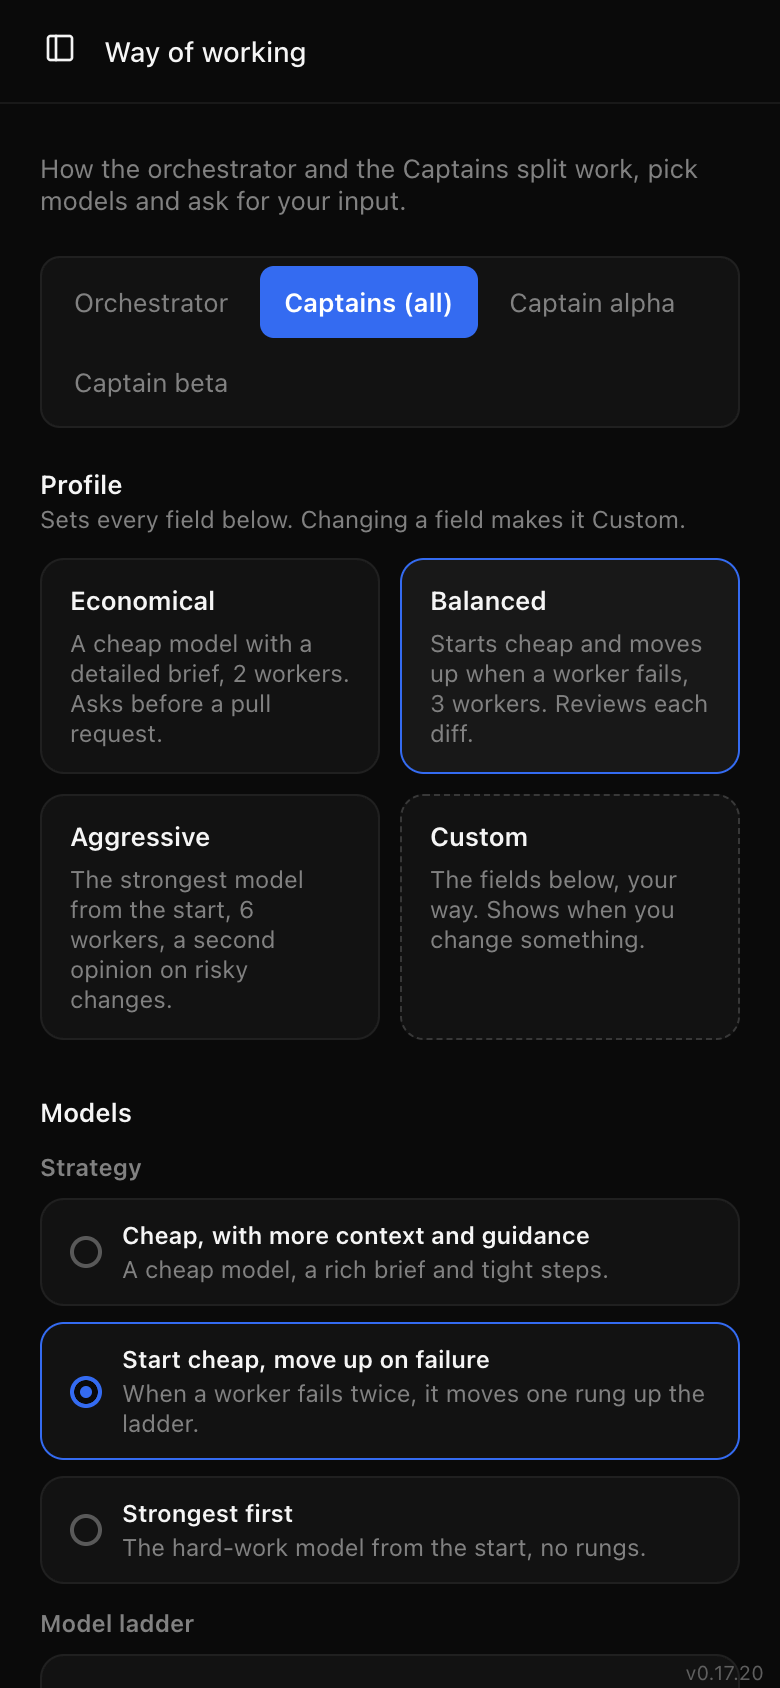
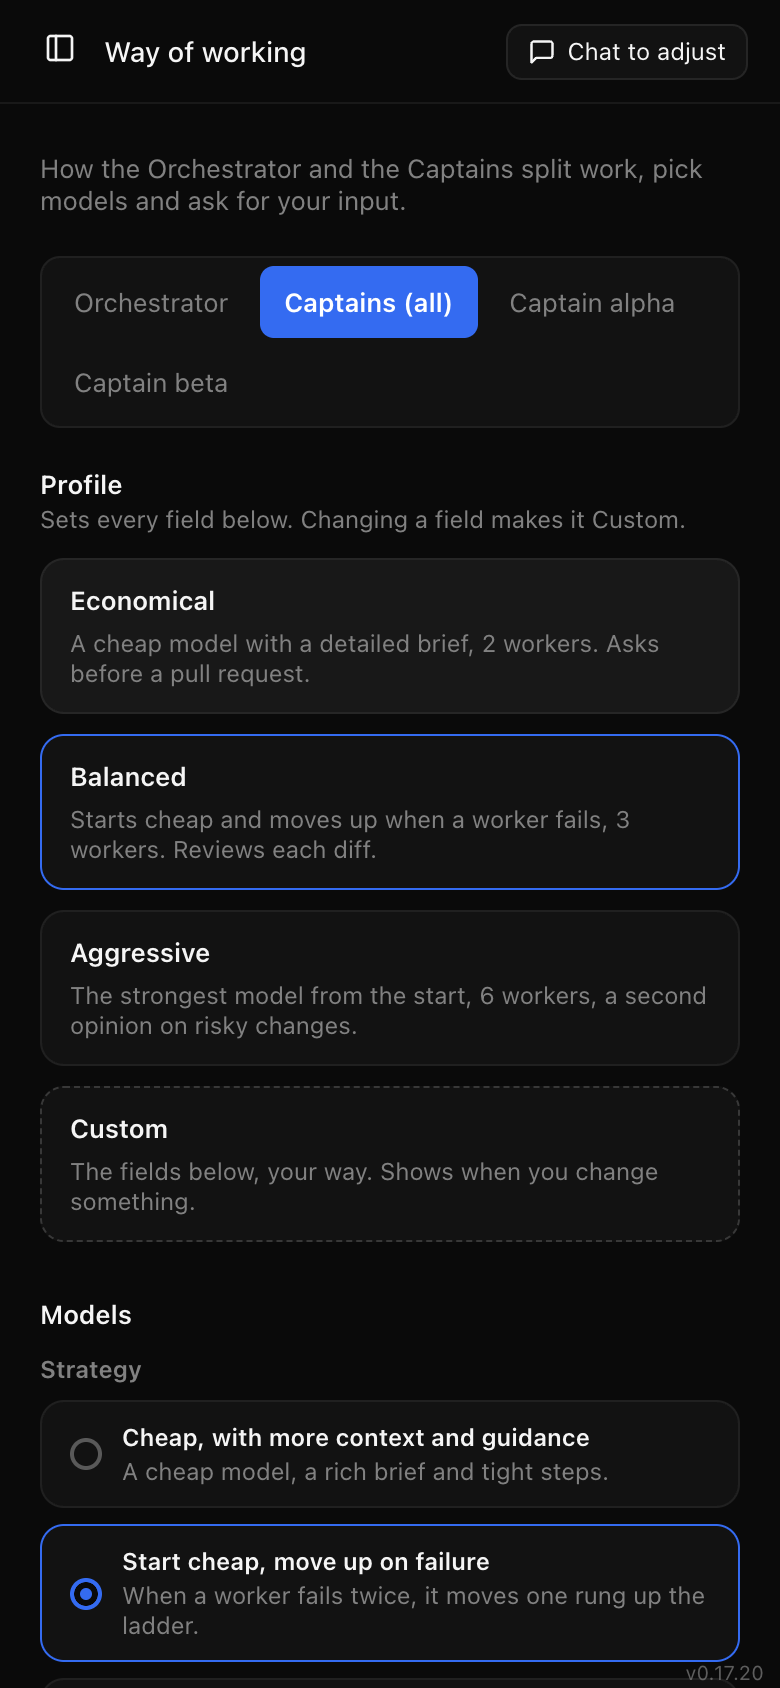
Name a project scope in the chat prompt without angle brackets
The thread shows the first prompt as Markdown, which dropped <repo> and
left "project:.". The phone shots of Chat to adjust scroll to the
parallel workers stepper.

diff --git a/scripts/web-sweep/taste.js b/scripts/web-sweep/taste.js
@@ -166,12 +166,18 @@ const shot = (page, name) => page.screenshot({ path: path.join(SCREENS, `${name}
     openPage("taste");
   });
   await waitFor("the watching page", () => watcher.isVisible(".taste-split"));
+  await small.evaluate(() => {
+    closePage();
+    openPage("taste");
+  });
+  await waitFor("the phone page again", () => small.isVisible(".taste-split"));
   await small.click('.taste-scopes button:text-is("Captains (all)")');
   for (const p of [watcher, small]) {
     await waitFor("4 workers on the open pages", async () => (await brief(p)).startsWith("Run up to 4 workers at once."));
     await p.evaluate(() => (window.sweepSameLoad = true));
   }
   await shot(watcher, "taste-chat-before");
+  await small.locator(".taste-stepper").evaluate((el) => el.scrollIntoView({ block: "center" }));
   await shot(small, "taste-chat-before-phone");
 
   check((await page.textContent(".page-head .taste-chat")) === "Chat to adjust", "the page head offers Chat to adjust");
@@ -180,6 +186,7 @@ const shot = (page, name) => page.screenshot({ path: path.join(SCREENS, `${name}
   await waitFor("the chat thread", () => page.evaluate(() => document.body.dataset.page !== "taste" && !!document.querySelector("#prompt")));
   const chatLaunch = await waitFor("the chat session's launch", () => fs.existsSync(LAUNCHES) && fs.readFileSync(LAUNCHES, "utf8").includes("Help me adjust") && fs.readFileSync(LAUNCHES, "utf8"));
   check(chatLaunch.includes("every project's Captain (Captains (all))") && chatLaunch.includes("(scope captains)"), "the chat's first prompt names the Captains' scope");
+  check(chatLaunch.includes("project: followed by the project's repo") && !chatLaunch.includes("<repo>"), "the prompt names a project scope in words a thread can show");
   check(["taste_get", "taste_set", "taste_reset"].every((tool) => chatLaunch.includes(tool)), "the first prompt explains the three tools");
   await waitFor("the first answer in the thread", () => page.evaluate(() => document.body.innerText.includes("echo: Help me adjust")));
   await shot(page, "taste-chat-thread");
@@ -201,6 +208,7 @@ const shot = (page, name) => page.screenshot({ path: path.join(SCREENS, `${name}
   await waitFor("the tool calls in the thread", () => page.evaluate(() => document.body.innerText.includes("Done: taste_set, taste_get.")));
   await shot(page, "taste-chat-applied");
   await shot(watcher, "taste-chat-after");
+  await small.locator(".taste-stepper").evaluate((el) => el.scrollIntoView({ block: "center" }));
   await shot(small, "taste-chat-after-phone");
 
   check(errors.length === 0, `no page errors${errors.length ? `: ${errors.join("; ")}` : ""}`);

diff --git a/crates/core/src/taste.rs b/crates/core/src/taste.rs
@@ -527,7 +527,7 @@ pub fn chat_prompt(scope: &TasteScope) -> String {
     format!(
         "Help me adjust the way of working of {who} in pinned (scope {name}).
 
-You have three tools for it. taste_get(scope) reads a scope: the settings its sessions get (effective), what the scope sets itself (own), and the brief text they start with. taste_set(scope, patch) changes the fields the patch names and keeps the rest; a project's field set to the Captains' value goes back to inheriting it. taste_reset(scope, field) makes a project inherit the field again, or gives the orchestrator and the Captains its default back. A scope is orchestrator, captains or project:<repo>. The fields are strategy (cheap_with_guidance, escalate_on_failure or strongest_first), ladder (models, cheapest first), hard_model, parallel (1 to 8), autonomy (ask_first, decide_and_tell or report_at_end), review_diffs, second_opinion, skills ({{name, enabled}}) and context (notes every turn carries). The Way of working page shows each change as soon as it lands, and new sessions start with it.
+You have three tools for it. taste_get(scope) reads a scope: the settings its sessions get (effective), what the scope sets itself (own), and the brief text they start with. taste_set(scope, patch) changes the fields the patch names and keeps the rest; a project's field set to the Captains' value goes back to inheriting it. taste_reset(scope, field) makes a project inherit the field again, or gives the orchestrator and the Captains its default back. A scope is orchestrator, captains, or project: followed by the project's repo, as in project:github.com/acme/site. The fields are strategy (cheap_with_guidance, escalate_on_failure or strongest_first), ladder (models, cheapest first), hard_model, parallel (1 to 8), autonomy (ask_first, decide_and_tell or report_at_end), review_diffs, second_opinion, skills ({{name, enabled}}) and context (notes every turn carries). The Way of working page shows each change as soon as it lands, and new sessions start with it.
 
 Start with taste_get(\"{name}\"). Then interview me: one short question at a time, each with two or three answers to pick from, and change nothing yet. When you know what to change, list the changes in plain words, apply them with taste_set or taste_reset once I agree, and read the scope again to show me the new brief.",
         who = scope.label(),
